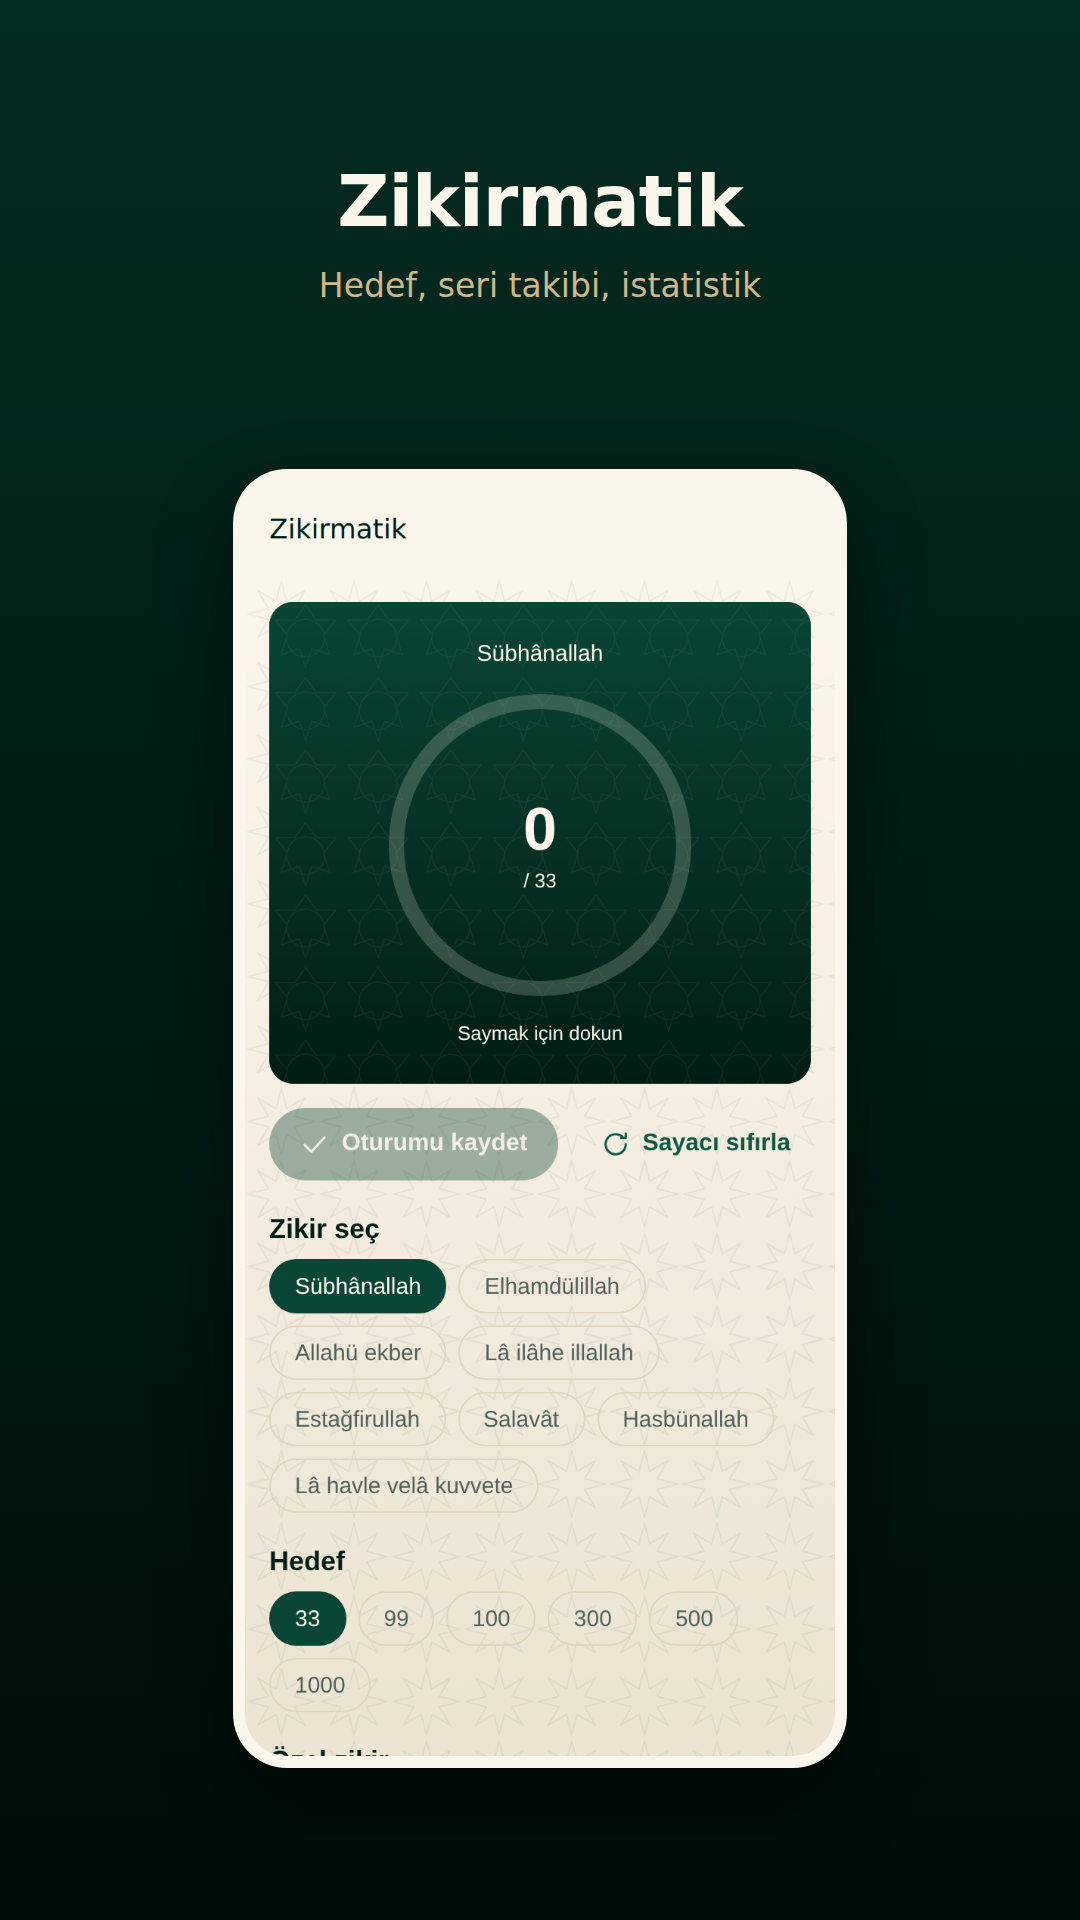
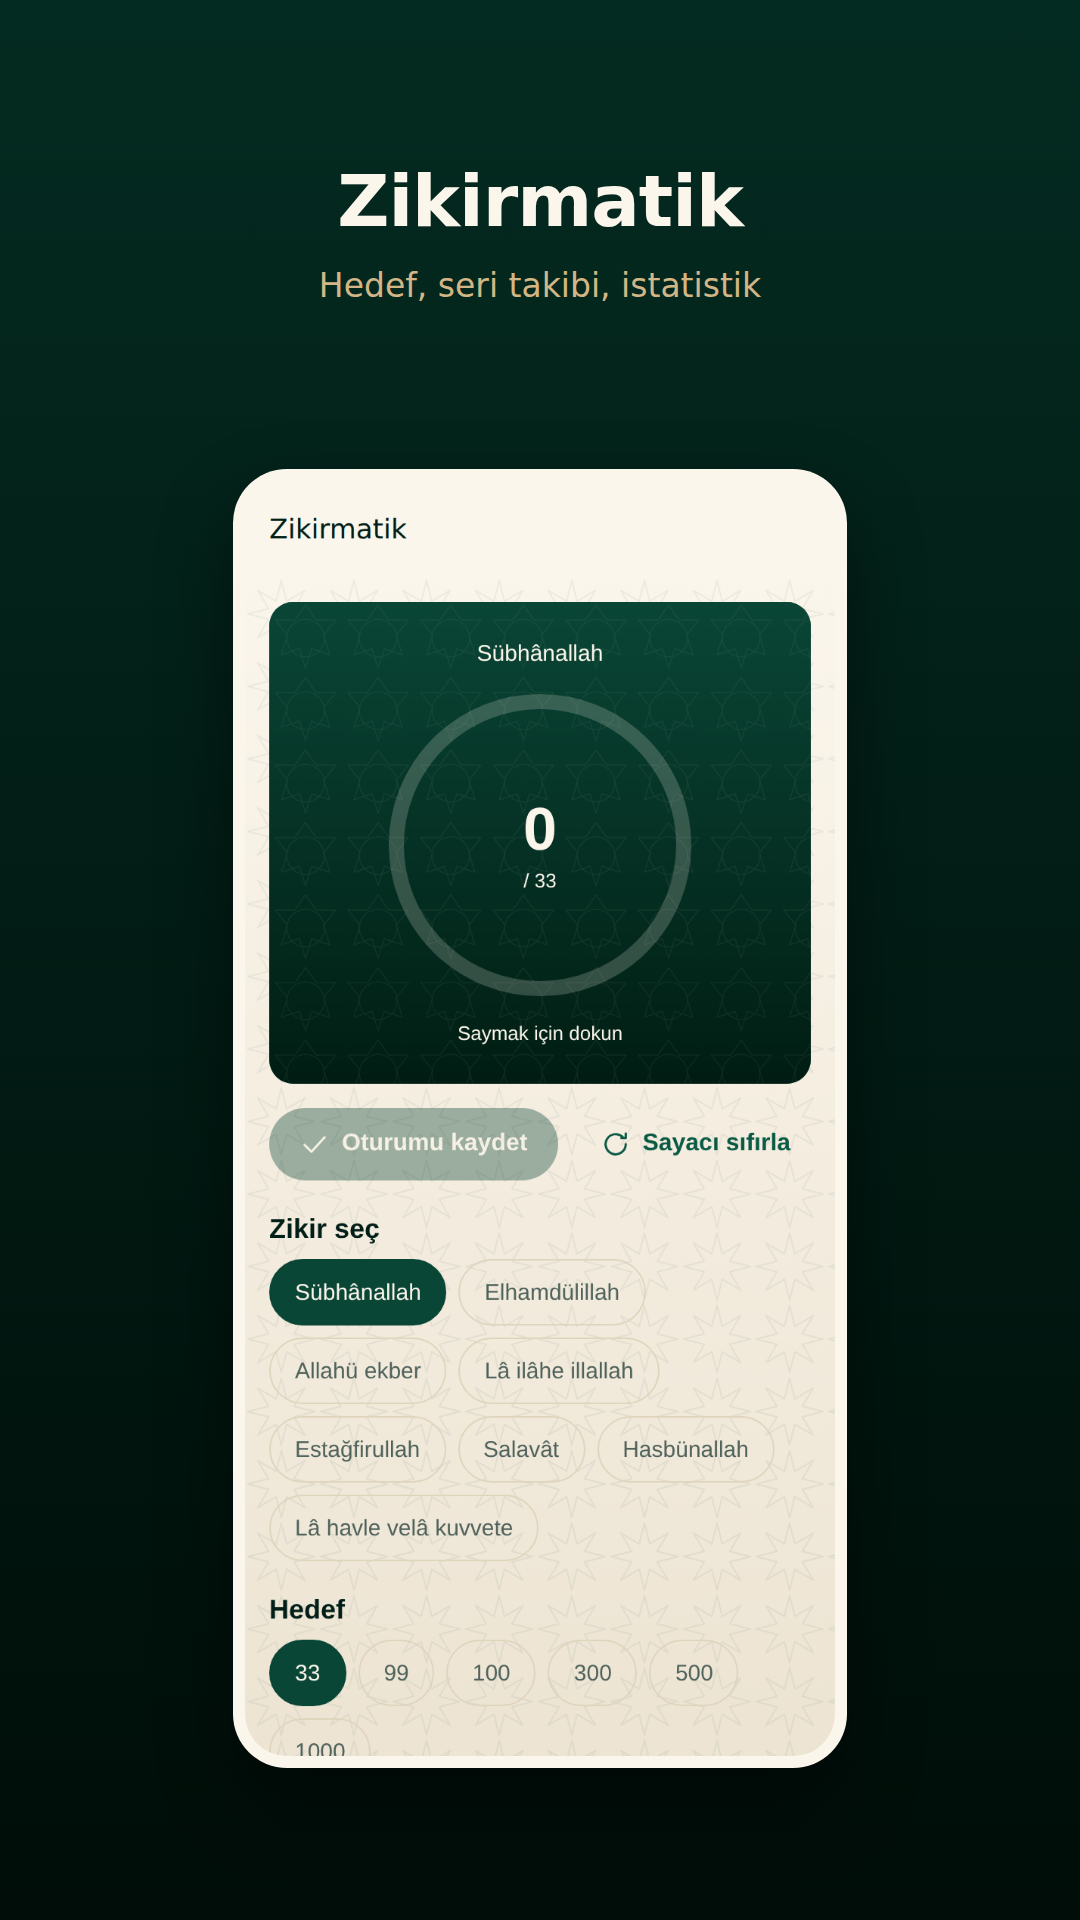
BEŞ: erişilebilirlik ve okunabilirlik düzeltmeleri
Dokunma hedefleri: segment seçici 38, çip 36 birimdi. İkisi de parmakla
vurulan gerçek denetimler (tema seçimi, ikindi hesabı, zikir seçimi, dua
kategorisi) ve Apple HIG'in alt sınırı 44. İkisi de 44'e çıkarıldı, çipe
hitSlop eklendi ve sınırlar sınamaya bağlandı.

Seçili satır bir noktayla ("•") işaretleniyordu: küçük, soluk ve ekran
okuyucuya hiçbir şey söylemiyordu. `ListItem` artık `selected` alıyor, onay
imi çiziyor ve `accessibilityState` ile duyuruyor.

Koyu temada pusula kadranı neredeyse görünmüyordu: kadran çizgisi `border`
token'ını kullanıyordu, o da koyu temada bilerek çok soluk (%10 beyaz).
Kenarlık bir yüzeyi ayırmak içindir; kadran ise okunması gereken bir çizim.
Ayrı bir `hairline` rolü eklendi.

Yayın belgeleri gerçeğe göre güncellendi: RELEASE_CHECKLIST'e mağaza kareleri
ve "yalnız var olan özellikleri anlat" maddesi, KNOWN_ISSUES'a E3'ün gerçek
kapsamı ve T5 (uzun içerik yalnız Türkçe — dinî içerik uydurulamaz).

606 sınama yeşil.

Claude-Session: https://claude.ai/code/session_01JRBWtDkQP3mv7dyWTEsgQ6

diff --git a/sukun/src/ui/ListItem.tsx b/sukun/src/ui/ListItem.tsx
@@ -18,14 +18,19 @@ export interface ListItemProps {
   disabled?: boolean;
   /** Sağda ok işareti göster (alt sayfaya gider). */
   chevron?: boolean;
+  /**
+   * Listeden seçilmiş satır. Sağda onay imi çizer ve ekran okuyucuya
+   * "seçili" olarak duyurur — nokta gibi sessiz bir işaret yetmiyor.
+   */
+  selected?: boolean;
   style?: StyleProp<ViewStyle>;
 }
 
 export function ListItem({
-  title, subtitle, value, icon, right, onPress, disabled = false, chevron, style,
+  title, subtitle, value, icon, right, onPress, disabled = false, chevron, selected, style,
 }: ListItemProps) {
   const theme = useTheme();
-  const showChevron = chevron ?? (!!onPress && !right);
+  const showChevron = chevron ?? (!!onPress && !right && !selected);
   const body = (
     <Row gap="md" align="center" style={{ minHeight: 52, paddingVertical: theme.spacing.sm }}>
       {icon ? <Icon name={icon} color={theme.colors.accent} /> : null}
@@ -35,6 +40,7 @@ export function ListItem({
       </Column>
       {value ? <Text variant="callout" tone="muted">{value}</Text> : null}
       {right}
+      {selected ? <Icon name="check" size={20} color={theme.colors.accent} /> : null}
       {showChevron ? <Icon name="chevronRight" size={18} color={theme.colors.textSubtle} /> : null}
     </Row>
   );
@@ -42,8 +48,8 @@ export function ListItem({
   return (
     <Pressable
       accessibilityRole="button"
+      accessibilityState={{ disabled, ...(selected === undefined ? {} : { selected }) }}
       accessibilityLabel={subtitle ? `${title}. ${subtitle}` : title}
-      accessibilityState={{ disabled }}
       disabled={disabled}
       onPress={onPress}
       style={({ pressed }) => [{ opacity: disabled ? theme.opacity.disabled : pressed ? 0.7 : 1 }, style]}

diff --git a/sukun/src/theme/index.ts b/sukun/src/theme/index.ts
@@ -56,6 +56,15 @@ export interface ThemeColors {
   danger: string;
   warning: string;
   success: string;
+  /**
+   * İnce çizim çizgisi: pusula kadranı, halka yatağı, grafik ızgarası.
+   *
+   * `border`den ayrıdır. Kenarlık bir yüzeyi ayırmak için vardır ve koyu
+   * temada bilerek çok soluktur (%10 beyaz); pusula kadranı ise **okunması
+   * gereken bir çizim**. Aynı token kullanılınca koyu temada kadran neredeyse
+   * kayboluyordu.
+   */
+  hairline: string;
   /** Arka plan motifi rengi (düşük opaklıkla kullanılır). */
   motif: string;
 }
@@ -85,6 +94,7 @@ export const lightTheme: Theme = {
     surface: palette.ivory25,
     surfaceRaised: palette.ivory200,
     border: palette.ivory300,
+    hairline: palette.ivory300,
     text: palette.ink900,
     textMuted: palette.ink500,
     textSubtle: palette.ink300,
@@ -113,6 +123,7 @@ export const darkTheme: Theme = {
     surface: palette.emerald850,
     surfaceRaised: palette.emerald700,
     border: 'rgba(255,255,255,0.10)',
+    hairline: 'rgba(251,246,236,0.34)',
     text: palette.ivory50,
     textMuted: 'rgba(251,246,236,0.70)',
     // Koyu zeminde 0.44 alfa yükseltilmiş yüzeylerde 3:1'in altına düşüyordu.

diff --git a/sukun/src/features/qibla/QiblaDial.tsx b/sukun/src/features/qibla/QiblaDial.tsx
@@ -39,7 +39,7 @@ export function QiblaDial({ qibla, heading, aligned, size = 280, labels }: Qibla
         y1={c + dis * Math.sin(a)}
         x2={c + ic * Math.cos(a)}
         y2={c + ic * Math.sin(a)}
-        stroke={theme.colors.border}
+        stroke={theme.colors.hairline}
         strokeWidth={buyuk ? 2 : 1}
         strokeLinecap="round"
       />,
@@ -74,7 +74,7 @@ export function QiblaDial({ qibla, heading, aligned, size = 280, labels }: Qibla
       style={{ width: size, height: size, alignSelf: 'center' }}
     >
       <Svg width={size} height={size}>
-        <Circle cx={c} cy={c} r={r} stroke={theme.colors.border} strokeWidth={2} fill="none" />
+        <Circle cx={c} cy={c} r={r} stroke={theme.colors.hairline} strokeWidth={2} fill="none" />
         <G transform={`rotate(${donme} ${c} ${c})`}>
           {centikler}
           {yonYazisi(labels.n, 0)}

diff --git a/sukun/__tests__/accessibility.test.ts b/sukun/__tests__/accessibility.test.ts
@@ -149,4 +149,17 @@ describe('dokunma hedefi boyutu', () => {
     // 'sm' 40 birim; bu durumda hitSlop ile 44'e tamamlanır.
     expect(s).toContain('hitSlop');
   });
+
+  it('dokunulabilir her bileşen 44 birimin altına düşmüyor', () => {
+    // Segment seçici 38, çip 36 birimdi. İkisi de parmakla vurulan gerçek
+    // denetimler: tema seçimi, ikindi hesabı, zikir seçimi, dua kategorisi.
+    // Apple HIG'in alt sınırı 44; altında kalan hedef titrek elde ıskalanır.
+    const olcu = (dosya: string) => {
+      const m = /minHeight:\s*(\d+)/.exec(kaynak(join(ROOT, 'src', 'ui', dosya)));
+      return Number(m?.[1] ?? 0);
+    };
+    for (const dosya of ['Segmented.tsx', 'Chip.tsx', 'ListItem.tsx', 'Field.tsx', 'Stepper.tsx']) {
+      expect({ dosya, yeterli: olcu(dosya) >= 44 }).toEqual({ dosya, yeterli: true });
+    }
+  });
 });

diff --git a/sukun/src/ui/Segmented.tsx b/sukun/src/ui/Segmented.tsx
@@ -52,7 +52,9 @@ export function Segmented<T extends string>({ options, value, onChange, accessib
               // birbirinin üstüne biniyordu (ibadet defteri). Sıfırlanmazsa
               // hücre metin genişliğinin altına inemez.
               minWidth: 0,
-              minHeight: 38,
+              // 44, Apple HIG'in en küçük dokunma hedefi; Android 48dp istiyor
+              // ama listede sıkışık durmasın diye hitSlop ile tamamlanıyor.
+              minHeight: 44,
               paddingHorizontal: theme.spacing.xs,
               alignItems: 'center',
               justifyContent: 'center',

diff --git a/sukun/app/onboarding.tsx b/sukun/app/onboarding.tsx
@@ -129,7 +129,10 @@ export default function OnboardingScreen() {
                 key={m.id}
                 title={yontemAdi(m.id)}
                 chevron={false}
-                {...(settings.method === m.id ? { value: '•' } : {})}
+                // Seçili satır bir noktayla işaretleniyordu: küçük, soluk ve
+                // ekran okuyucuya hiçbir şey söylemiyordu. Onay imi hem
+                // görülüyor hem `accessibilityState` ile duyuruluyor.
+                selected={settings.method === m.id}
                 onPress={() => update({ method: m.id })}
               />
             ))}

diff --git a/sukun/app/prayer-settings.tsx b/sukun/app/prayer-settings.tsx
@@ -75,7 +75,9 @@ export default function PrayerSettingsScreen() {
             key={m.id}
             title={yontemAdi(m.id)}
             chevron={false}
-            {...(settings.method === m.id ? { value: '•' } : {})}
+            // Seçili satır bir noktayla işaretleniyordu: küçük, soluk ve
+            // ekran okuyucuya hiçbir şey söylemiyordu (D: erişilebilirlik).
+            selected={settings.method === m.id}
             onPress={() => update({ method: m.id })}
           />
         ))}

diff --git a/sukun/src/ui/Chip.tsx b/sukun/src/ui/Chip.tsx
@@ -20,8 +20,9 @@ export function Chip({ label, selected = false, onPress, disabled = false }: Chi
       accessibilityState={{ selected, disabled }}
       disabled={disabled}
       onPress={onPress}
+      hitSlop={6}
       style={({ pressed }) => ({
-        minHeight: 36,
+        minHeight: 44,
         justifyContent: 'center',
         paddingHorizontal: theme.spacing.lg,
         borderRadius: theme.radius.pill,

diff --git a/sukun/RELEASE_CHECKLIST.md b/sukun/RELEASE_CHECKLIST.md
@@ -28,11 +28,17 @@ yazılır**; sessizce geçilmez.
 
 ## 4. Mağaza
 
-- [ ] Ekran görüntüleri güncel (§110)
+- [ ] `npm run store:shots` çalıştırıldı; `store/screenshots/` güncel
+      (App Store 1290×2796, Play 1080×1920, öne çıkan 1024×500, ikon 512×512)
 - [ ] Mağaza metinleri gözden geçirildi; **sağlık ya da dinî hüküm iddiası yok**
-- [ ] Gizlilik sayfası yayında: `docs/sukun/privacy.html`
-- [ ] Veri güvenliği formu: **kişisel veri toplanmıyor** (v1'de sunucu yok)
-- [ ] Yaş derecesi ve reklam kategorisi ayarları konsolda G'ye sabitlendi
+- [ ] **Metinler yalnız var olan özellikleri anlatıyor.** Bir kez tersi oldu:
+      açıklamada reklam kuralları ve Pro aboneliği yazıyordu, ikisi de kodda
+      dormant. "Metadata describes functionality not present" doğrudan ret
+      sebebidir. `security.test.ts` bunu artık denetliyor.
+- [ ] Gizlilik sayfası yayında: `docs/sukun/privacy.html` ve `gizlilik.html`
+- [ ] İki konsolun formu `store/app-privacy.md` içindeki yanıtlarla dolduruldu
+      (ikisinde de **veri toplanmıyor**)
+- [ ] Yaş derecesi 4+ / Herkes; reklam sorusu yok (reklam gösterilmiyor)
 - [ ] EU DSA tüccar beyanı dolduruldu
 
 ## 5. Elle sınama — beş kullanıcı yolculuğu (§102)
@@ -53,7 +59,11 @@ Her biri **gerçek cihazda**, uçak modunda bir kez daha tekrarlanır:
 ## 6. Son kontrol
 
 - [ ] Uçak modunda uygulama açılıyor ve çalışıyor (çevrimdışı ürün sözü)
-- [ ] Koyu ve açık temada bütün ekranlar okunuyor
-- [ ] Yazı boyutu en büyükte düzen kırılmıyor
-- [ ] VoiceOver/TalkBack ile ana akış geçilebiliyor
+- [x] Koyu ve açık temada bütün ekranlar okunuyor — `npm run preview`
+      dört geçiş çiziyor (açık, koyu, 320 piksel, Arapça) ve her karede
+      çalışma hatası, boş ekran ve yatay taşma denetleniyor
+- [ ] Yazı boyutu en büyükte düzen kırılmıyor *(gerçek cihazda; web hedefi
+      Dynamic Type ölçeğini uygulamıyor — 320 piksellik geçiş en yakın vekil)*
+- [ ] VoiceOver/TalkBack ile ana akış geçilebiliyor *(gerçek cihazda)*
 - [ ] Pil: pusula ekranı kapatıldığında ölçüm duruyor
+- [x] Beş dilin beşinde de arayüz tam çevrili (`i18n.test.ts` 538/538)

diff --git a/KNOWN_ISSUES.md b/KNOWN_ISSUES.md
@@ -26,7 +26,7 @@ Bilinen eksikler ve engeller. Kapanan madde `CHANGELOG.md`'ye taşınır.
 |---|---|---|
 | E1 | Bu kapsayıcıda **macOS/Xcode yok** | iOS derlemesi yalnız CI'da (macOS runner) doğrulanabilir |
 | E2 | Bu kapsayıcıda **Android SDK yok** | Android derlemesi yalnız CI'da doğrulanabilir |
-| E3 | Simülatör/emülatör yok | Ekran görüntüleri ve gezinme videosu web hedefi (react-native-web) üzerinden alınır. 42 ekran + 85 sn'lik tur bu yolla çekildi ve incelendi; gerçek cihazda son bir bakış yine de gerekiyor. |
+| E3 | Simülatör/emülatör yok | Ekran görüntüleri ve gezinme videosu web hedefi (react-native-web) üzerinden alınır. **Dört geçiş × 32 ekran = 128 kare** (açık, koyu, 320 piksel, Arapça) her derlemede çizilip çalışma hatası, boş ekran ve yatay taşma açısından denetleniyor. Web hedefinin ulaşamadığı üç şey kalıyor ve **gerçek cihazda bakılmalı**: pusula donanımı, Dynamic Type ölçeği ve RTL aynalama (`I18nManager`). |
 
 ## Açık teknik borç
 
@@ -36,3 +36,4 @@ Bilinen eksikler ve engeller. Kapanan madde `CHANGELOG.md`'ye taşınır.
 | T2 | Haftalık takvim ekranı | `rangeSchedule` işlevi ve sınaması hazır; ekranı FAZ 3'te eklenecek. |
 | T4 | Esmâü'l-Hüsnâ Arapça yazımı | Okunuş ve Türkçe anlam tam; Arapça yazım doğrulanmış kaynaktan eklenecek. Ezberden dizilmeyeceği için bilerek boş (CONTENT_SOURCES kuralı 1). |
 | T3 | Bileşen (render) testleri | Saf mantık sınanıyor; bileşen ve E2E sınamaları FAZ 18'de eklenecek (§86). |
+| T5 | Uzun içerik yalnız Türkçe | Arayüzün tamamı beş dilde; ama Kur'an meali, dua metinleri, namaz/hac rehberi ve 43 bilgi maddesi Türkçe. Bunlar **çevrilmedi çünkü uydurulamaz**: dinî içerik doğrulanmış kaynaktan gelir (CONTENT_SOURCES kuralı 1). Mağaza metni bunu açıkça yazıyor. |

diff --git a/PROJECT_STATE.md b/PROJECT_STATE.md
@@ -9,7 +9,7 @@
 |---|---|
 | Marka | **BEŞ** — sembol `5` (D15). `BrandConfig` tek kaynak; paket kimliği `com.kusgrup.sukun` olarak kaldı |
 | Klasör | `sukun/` |
-| Sürüm | 0.1.0 (ilk üretim sürümü hedefi: 1.0.0) |
+| Sürüm | 1.0.0 (ilk üretim sürümü hedefi: 1.0.0) |
 | Teknoloji | Expo SDK 54 · React Native 0.81.5 · React 19 · TypeScript (strict) · expo-router 6 |
 | Backend | Supabase (PostgreSQL + Auth + Storage + Edge Functions + RLS) |
 
@@ -167,6 +167,9 @@ depolama hesabı yazıldı ve sınandı; ses dosyaları kıraat lisansına bağl
 | Marka varlıkları | ✅ **bitmiş master PNG** (`assets/brand/png/`, D17); `gen-brand.js` kırpar, ölçekler, alfa ayıklar — çizmez |
 | Renk paleti | ✅ masterın piksellerinden **ölçülüyor** (D18); zemin ve marka kartı gradyanlı, iki tema da ayarlı |
 | Veri taşıma | ✅ **yerel yedek** (D19): dışa aktar / geri yükle; bulut eşitleme hâlâ v2 |
+| Dil | ✅ arayüzün **tamamı** beş dilde (538 anahtar × 5, sınamaya bağlı); uzun içerik Türkçe (T5) |
+| Mağaza varlıkları | ✅ `store/screenshots/` — iki mağazanın istediği bütün boyutlar (`npm run store:shots`) |
+| Gizlilik | ✅ reklam yok, izleyici yok, analitik yok, hesap yok; iddialar sınamaya bağlı |
 | iOS CI | ✅ `sukun-ios.yml` — kalite kapısı + imzasız simulator derlemesi |
 | iOS yayın | ⚙ `sukun-release-ios.yml` — elle çalışır, TestFlight'a yükler (secret'lara bağlı) |
 | Android CI | ⚙ `sukun-android.yml` — kalite kapısı + AAB + debug APK |
